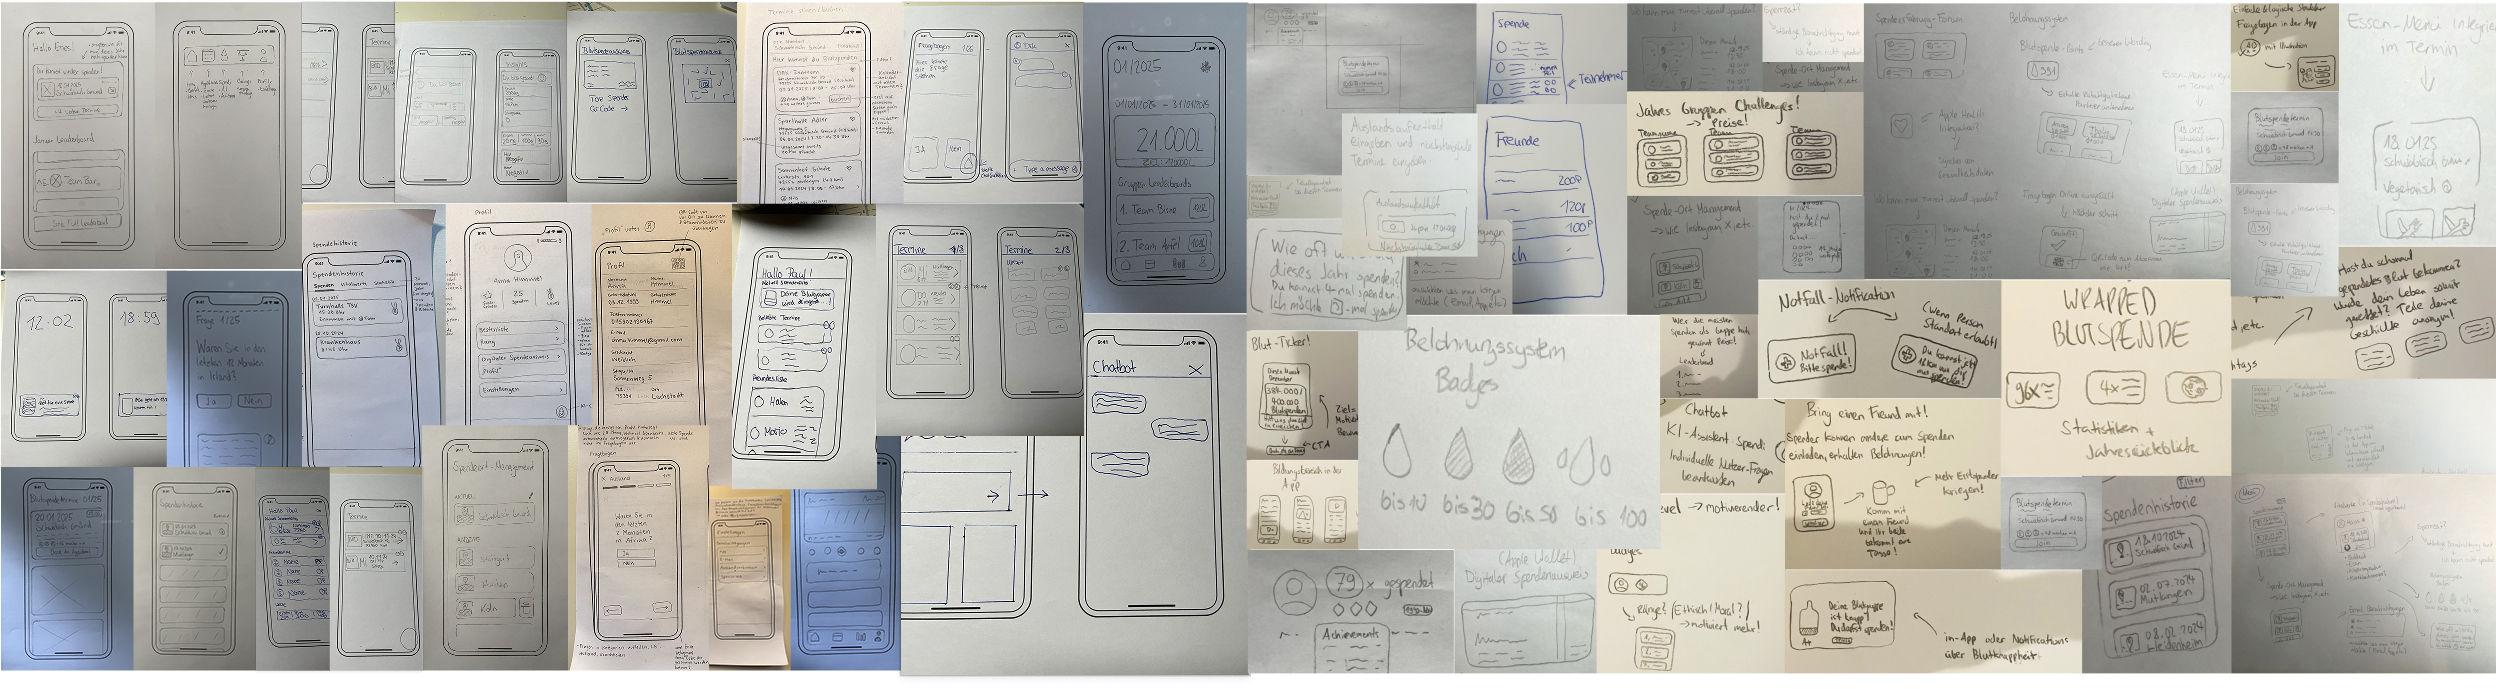
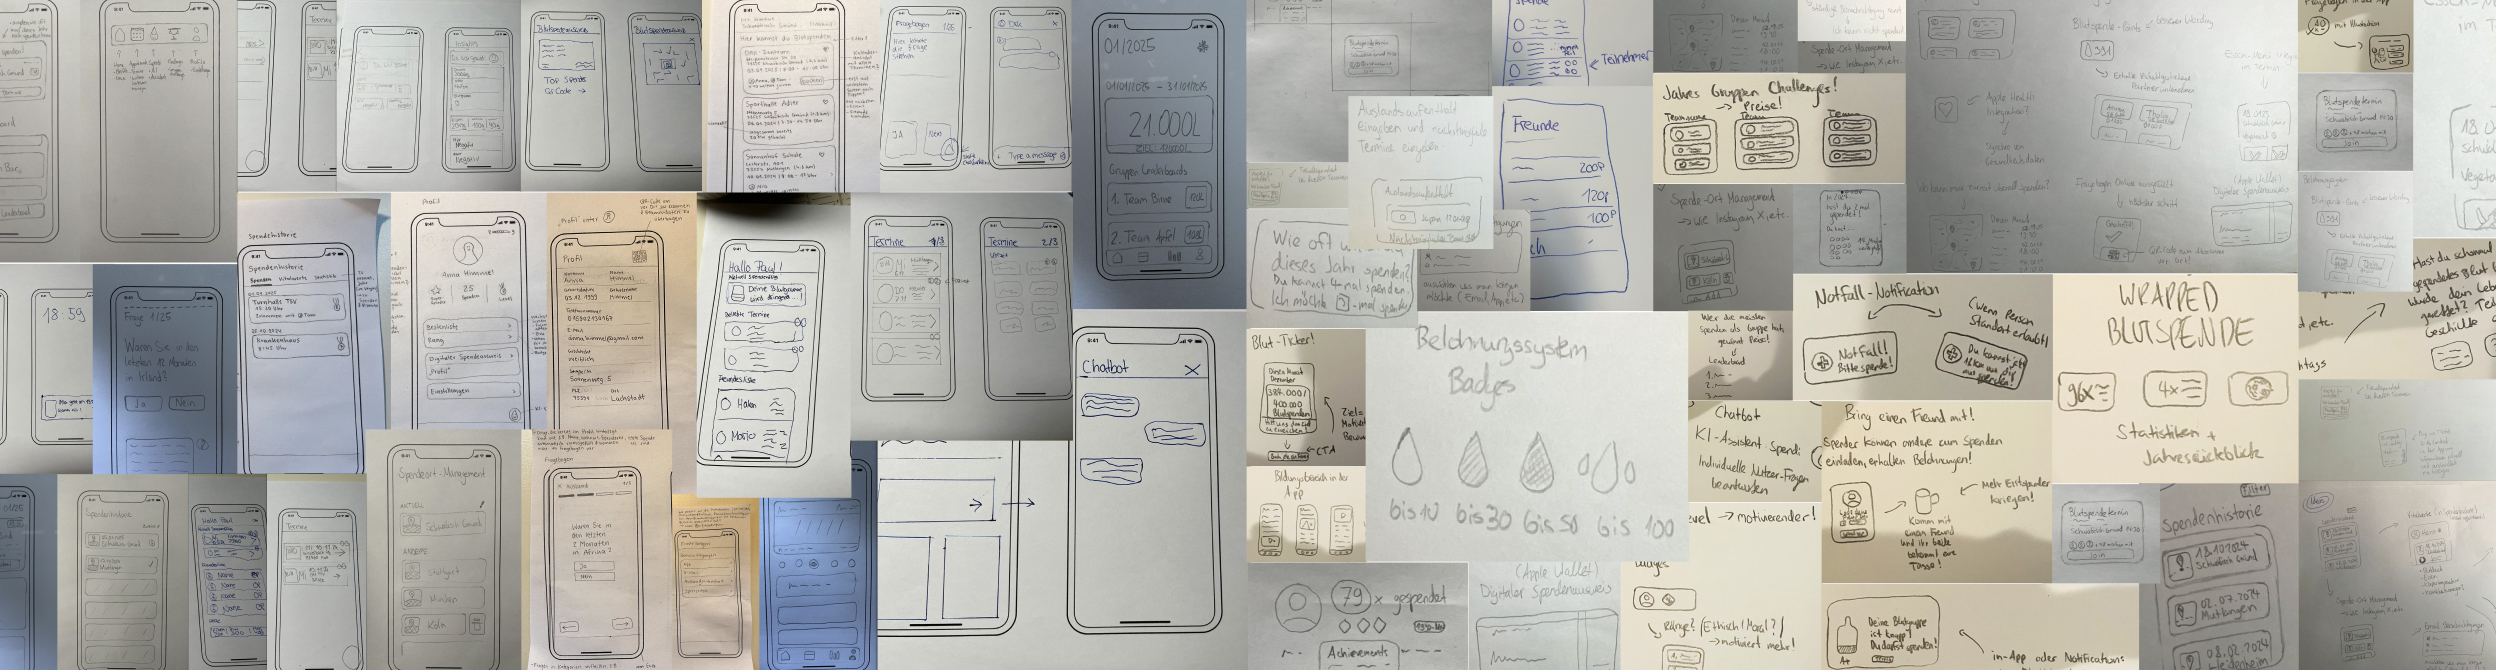
Wireframe asset sync; YouTube cards: init fix, Mykorrizha YT, z-index
- Copy updated wireframesblock.jpg; cache-bust v=4 in project-pulse
- hover-video: init when iframe_api script in DOM; load + poll fallbacks; v=10
- index/orientation/aidea: Mykorrizha work-card data-yt-id (AIDEA clip — replace with project video as needed)
- work-card: yt layer z-index 10; v=17

Made-with: Cursor

diff --git a/ASSETS/js/hover-video.js b/ASSETS/js/hover-video.js
@@ -59,7 +59,12 @@
       initPlayers();
       return;
     }
+    /* If the iframe API script is already in the DOM (cache / repeat load), the tag exists
+     * but the early return used to skip initPlayers() entirely — the API may already be ready. */
     if (document.querySelector('script[src*="youtube.com/iframe_api"]')) {
+      if (window.YT && window.YT.Player) {
+        initPlayers();
+      }
       return;
     }
     if (scriptRequested) return;
@@ -201,8 +206,7 @@
 
   window.addEventListener('siteRevealed', onSiteRevealed, { once: true });
 
-  // Preloader can dispatch `siteRevealed` in the same turn as the first script (e.g. missing ring,
-  // or readyState not "loading") before this file runs — listener would miss the event.
+  // Preloader can dispatch `siteRevealed` before this file runs — listener would miss the event.
   if (document.body && document.body.classList.contains('is-revealing')) {
     onSiteRevealed();
   }
@@ -210,4 +214,25 @@
   if (window.YT && window.YT.Player) {
     initPlayers();
   }
+
+  /* Backup: IFrame API sometimes loads before onYouTubeIframeAPIReady is assigned (strict order). */
+  window.addEventListener('load', function () {
+    if (window.YT && window.YT.Player) {
+      initPlayers();
+    }
+  });
+
+  // Poll briefly for late API (slow networks / ad blockers with delayed inject)
+  var yTry = 0;
+  var yPoll = setInterval(function () {
+    yTry += 1;
+    if (window.YT && window.YT.Player) {
+      if (!playersBuilt) {
+        initPlayers();
+      }
+      clearInterval(yPoll);
+    } else if (yTry > 40) {
+      clearInterval(yPoll);
+    }
+  }, 150);
 })();

diff --git a/project-orientation.html b/project-orientation.html
@@ -25,7 +25,7 @@
   <link rel="stylesheet" href="css/components/footer.css">
   <link rel="stylesheet" href="css/components/button.css?v=2">
   <link rel="stylesheet" href="css/components/tag.css">
-  <link rel="stylesheet" href="css/components/work-card.css?v=16">
+  <link rel="stylesheet" href="css/components/work-card.css?v=17">
   <link rel="stylesheet" href="css/components/text-block.css?v=2">
   <link rel="stylesheet" href="css/components/section.css?v=2">
   <link rel="stylesheet" href="css/components/project-collage.css?v=3">
@@ -193,7 +193,7 @@
             </a>
 
             <!-- Card 2: MYKORRIZHA -->
-            <a href="project-mykorrizha.html" class="work-card work-card--mykorrizha has-secondary">
+            <a href="project-mykorrizha.html" class="work-card work-card--mykorrizha has-secondary" data-yt-id="s7T9XYbdVTY" data-yt-start="10">
               <div class="work-card__inner">
                 <div class="work-card__media">
                   <img class="work-card__image work-card__image--primary" src="ASSETS/COVERS/mykorrizha-cover.jpg?v=2" alt="Mykrozziha — Education ecosystem concept" loading="lazy">
@@ -244,6 +244,6 @@
   <script src="ASSETS/js/scroll-progress.js?v=5"></script>
   <script src="https://unpkg.com/lenis@1.1.20/dist/lenis.min.js"></script>
   <script src="ASSETS/js/smooth-scroll.js"></script>
-  <script src="ASSETS/js/hover-video.js?v=9"></script>
+  <script src="ASSETS/js/hover-video.js?v=10"></script>
 </body>
 </html>

diff --git a/project-aidea.html b/project-aidea.html
@@ -14,7 +14,7 @@
   <link rel="stylesheet" href="css/components/footer.css">
   <link rel="stylesheet" href="css/components/button.css?v=2">
   <link rel="stylesheet" href="css/components/tag.css">
-  <link rel="stylesheet" href="css/components/work-card.css?v=16">
+  <link rel="stylesheet" href="css/components/work-card.css?v=17">
   <link rel="stylesheet" href="css/components/text-block.css?v=2">
   <link rel="stylesheet" href="css/components/section.css">
   <link rel="stylesheet" href="css/components/project-collage.css?v=3">
@@ -333,7 +333,7 @@
           </a>
 
           <!-- Card 2: MYKORRIZHA -->
-          <a href="project-mykorrizha.html" class="work-card has-secondary">
+          <a href="project-mykorrizha.html" class="work-card has-secondary" data-yt-id="s7T9XYbdVTY" data-yt-start="10">
             <div class="work-card__inner">
               <div class="work-card__media">
                 <img class="work-card__image work-card__image--primary" src="ASSETS/COVERS/mykorrizha-cover.jpg?v=2" alt="Mykrozziha Project" loading="lazy">
@@ -402,6 +402,6 @@
   <script src="ASSETS/js/scroll-progress.js?v=5"></script>
   <script src="https://unpkg.com/lenis@1.1.20/dist/lenis.min.js"></script>
   <script src="ASSETS/js/smooth-scroll.js"></script>
-  <script src="ASSETS/js/hover-video.js?v=9"></script>
+  <script src="ASSETS/js/hover-video.js?v=10"></script>
 </body>
 </html>

diff --git a/index.html b/index.html
@@ -16,7 +16,7 @@
   <link rel="stylesheet" href="css/components/footer.css">
   <link rel="stylesheet" href="css/components/button.css?v=2">
   <link rel="stylesheet" href="css/components/tag.css">
-  <link rel="stylesheet" href="css/components/work-card.css?v=16">
+  <link rel="stylesheet" href="css/components/work-card.css?v=17">
   <link rel="stylesheet" href="css/pages/home.css">
   <link rel="stylesheet" href="css/components/preloader.css">
 </head>
@@ -74,7 +74,7 @@
           </a>
 
           <!-- Card 2: MYKORRIZHA -->
-          <a href="project-mykorrizha.html" class="work-card work-card--mykorrizha has-secondary">
+          <a href="project-mykorrizha.html" class="work-card work-card--mykorrizha has-secondary" data-yt-id="s7T9XYbdVTY" data-yt-start="10">
             <div class="work-card__inner">
               <div class="work-card__media">
                 <img class="work-card__image work-card__image--primary" src="ASSETS/COVERS/mykorrizha-cover.jpg?v=2" alt="Mykrozziha — Education ecosystem concept" loading="lazy">
@@ -165,6 +165,6 @@
   <script src="ASSETS/js/copy-mail.js"></script>
   <script src="https://unpkg.com/lenis@1.1.20/dist/lenis.min.js"></script>
   <script src="ASSETS/js/smooth-scroll.js"></script>
-  <script src="ASSETS/js/hover-video.js?v=9"></script>
+  <script src="ASSETS/js/hover-video.js?v=10"></script>
 </body>
 </html>

diff --git a/project-pulse.html b/project-pulse.html
@@ -14,7 +14,7 @@
   <link rel="stylesheet" href="css/components/footer.css">
   <link rel="stylesheet" href="css/components/button.css?v=2">
   <link rel="stylesheet" href="css/components/tag.css">
-  <link rel="stylesheet" href="css/components/work-card.css?v=16">
+  <link rel="stylesheet" href="css/components/work-card.css?v=17">
   <link rel="stylesheet" href="css/components/text-block.css?v=2">
   <link rel="stylesheet" href="css/components/section.css">
   <link rel="stylesheet" href="css/components/project-collage.css?v=3">
@@ -179,7 +179,7 @@
           <figure class="pulse__framing-figure pulse__framing-figure--wireframe">
             <img
               class="pulse__framing-block-img"
-              src="ASSETS/images/PULSE/wireframesblock.jpg?v=2"
+              src="ASSETS/images/PULSE/wireframesblock.jpg?v=4"
               alt="Wireframe block — early flow exploration for Pulse"
               width="2496"
               height="689"
@@ -386,7 +386,7 @@
   <script src="ASSETS/js/scroll-progress.js?v=5"></script>
   <script src="https://unpkg.com/lenis@1.1.20/dist/lenis.min.js"></script>
   <script src="ASSETS/js/smooth-scroll.js"></script>
-  <script src="ASSETS/js/hover-video.js?v=9"></script>
+  <script src="ASSETS/js/hover-video.js?v=10"></script>
   <script src="ASSETS/js/pulse-final-screens.js?v=1"></script>
 </body>
 </html>

diff --git a/project-mykorrizha.html b/project-mykorrizha.html
@@ -14,7 +14,7 @@
   <link rel="stylesheet" href="css/components/footer.css">
   <link rel="stylesheet" href="css/components/button.css?v=2">
   <link rel="stylesheet" href="css/components/tag.css">
-  <link rel="stylesheet" href="css/components/work-card.css?v=16">
+  <link rel="stylesheet" href="css/components/work-card.css?v=17">
   <link rel="stylesheet" href="css/components/text-block.css?v=2">
   <link rel="stylesheet" href="css/components/section.css">
   <link rel="stylesheet" href="css/components/project-collage.css?v=3">
@@ -316,6 +316,6 @@
   <script src="ASSETS/js/scroll-progress.js?v=5"></script>
   <script src="https://unpkg.com/lenis@1.1.20/dist/lenis.min.js"></script>
   <script src="ASSETS/js/smooth-scroll.js"></script>
-  <script src="ASSETS/js/hover-video.js?v=9"></script>
+  <script src="ASSETS/js/hover-video.js?v=10"></script>
 </body>
 </html>

diff --git a/css/components/work-card.css b/css/components/work-card.css
@@ -131,7 +131,7 @@
 .work-card[data-yt-id]:focus-within .work-card__yt-wrapper,
 .work-card[data-yt-id]:focus-visible .work-card__yt-wrapper {
   opacity: 1;
-  z-index: 5;
+  z-index: 10;
 }
 
 /* Make iframe act like object-fit: cover */
